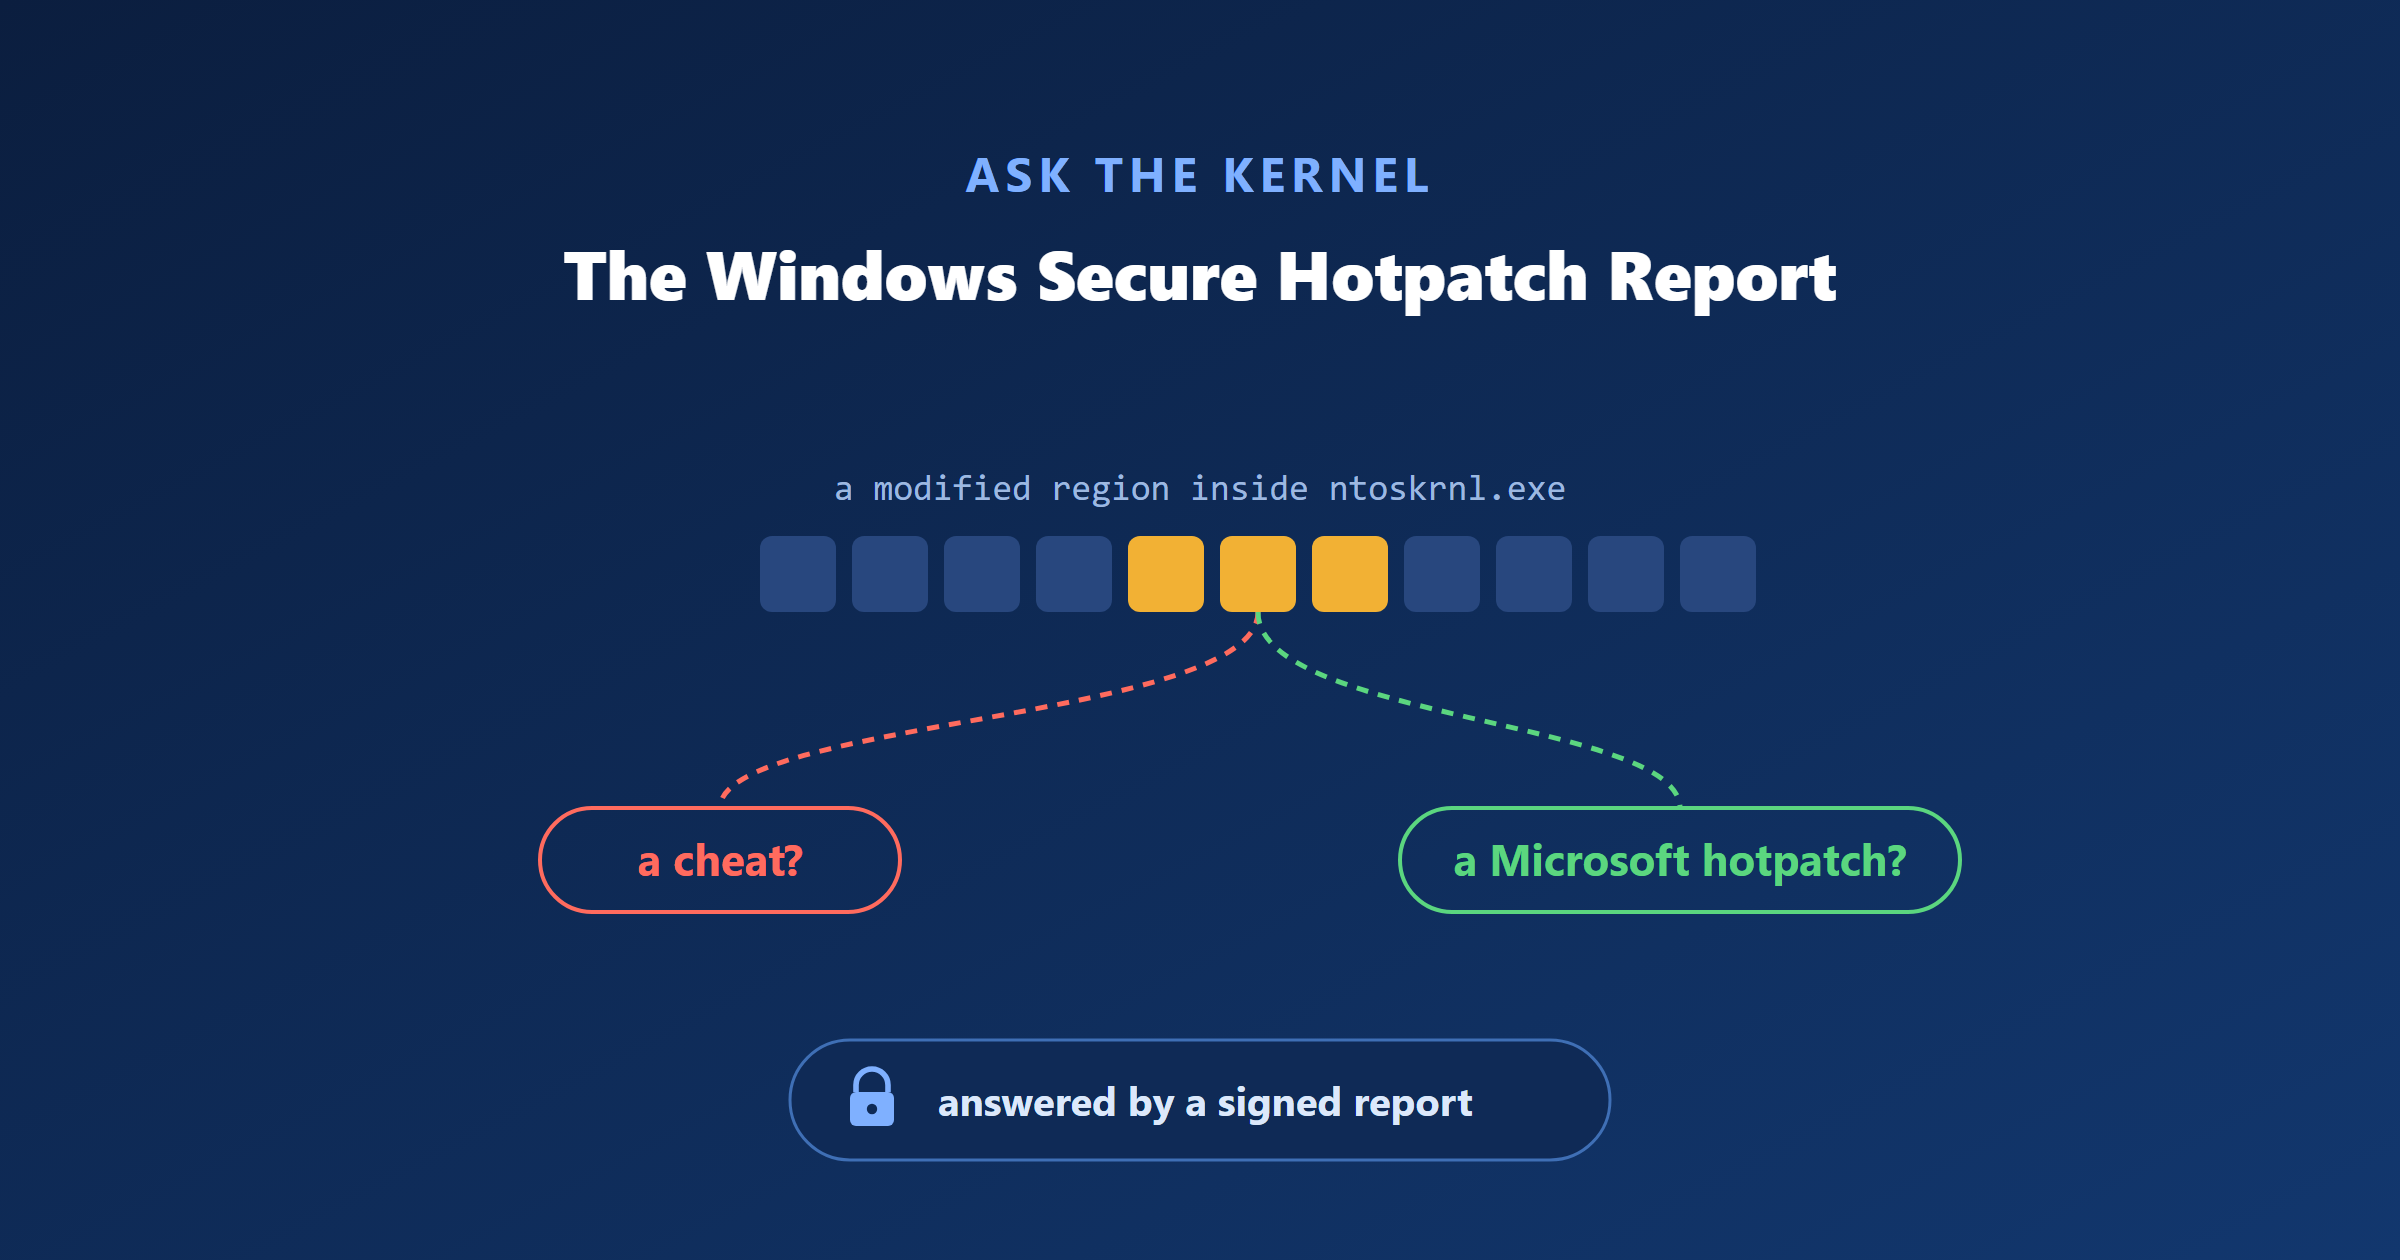
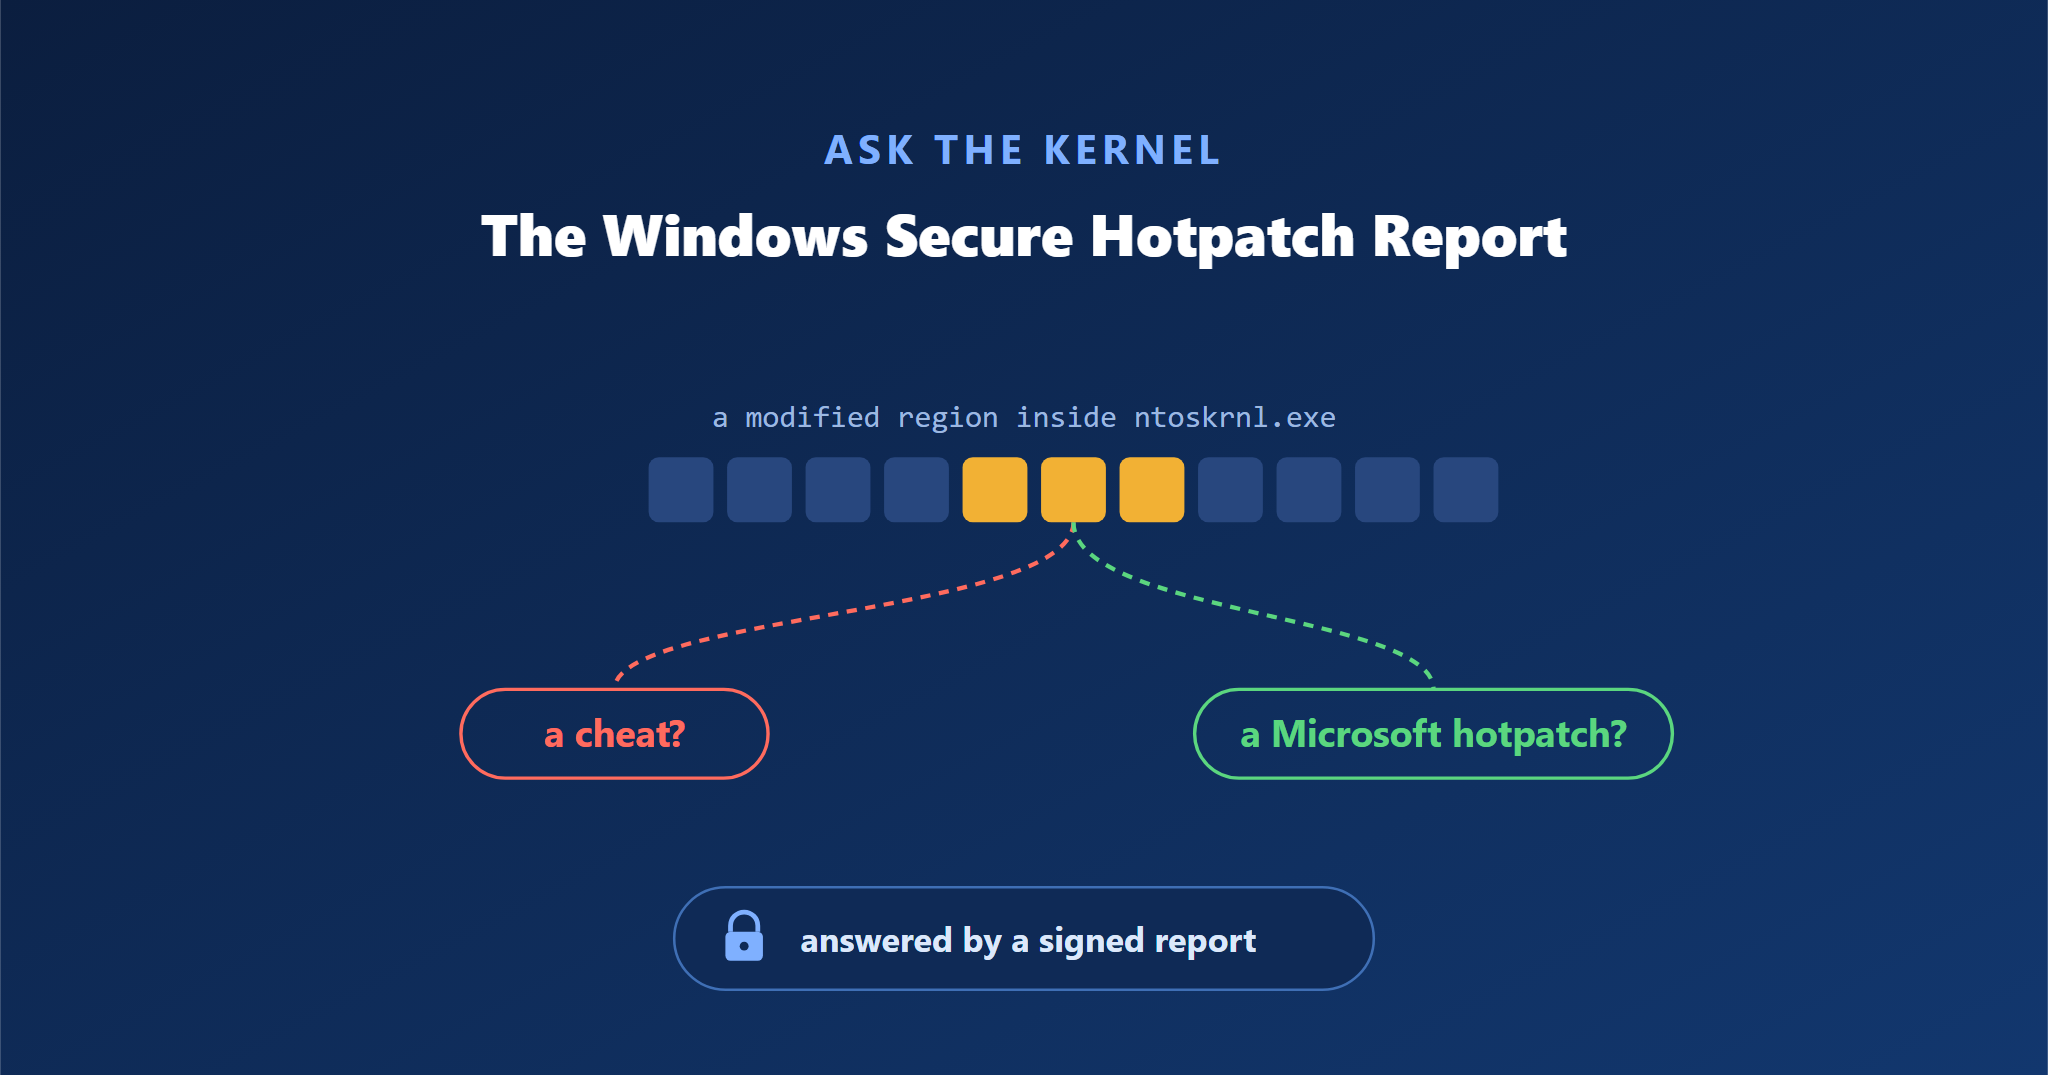
Size the share card for the platforms that consume it
Why is this change being made?
- The share card was rendered at 2400 pixels wide with no colour space
  information at all: no `sRGB` chunk and no embedded profile. Consumers had to
  resample it and guess at its colour space.
- Facebook documents 1200x630 as a floor rather than a target, and asks that
  images stay close to 1.91:1 to avoid cropping. 2048 on the long side sits
  above that floor while staying inside the point where platforms begin
  downscaling, and comfortably inside the 5 MB ceiling X and LinkedIn apply.

What changed?
- Rendered the card at 2048x1075 straight from the vector source, so it is a
  native rasterisation rather than an upscale, at a 1.9051 aspect ratio.
- Embedded an sRGB profile so no consumer has to guess at the colour space.
- Told the optimizer to keep metadata on the lossless path, since sharp drops
  it by default and would otherwise strip the profile the file just gained.
- Kept PNG rather than JPEG. Every platform re-encodes card images anyway, so a
  lossless source means one lossy generation rather than two, and this artwork
  is flat colour, thin strokes and text on a gradient, which is the content
  JPEG handles worst.

How was the change tested?
- Built with `JEKYLL_ENV=production` and ran the optimizer over the built site
  exactly as the deploy workflow does.
- Confirmed the card leaves the pipeline pixel-identical to the source, with a
  maximum per-channel difference of zero, in RGB mode rather than palette, and
[…]

diff --git a/_posts/2026-07-31-secure-hotpatch-report.md b/_posts/2026-07-31-secure-hotpatch-report.md
@@ -7,8 +7,8 @@ image:
   alt: "The Windows Secure Hotpatch Report: a modified region in ntoskrnl.exe branching to 'a cheat?' or 'a Microsoft hotpatch?', answered by a signed report."
 social_image:
   path: /assets/images/hotpatch/hero-hotpatch.png
-  width: 2400
-  height: 1260
+  width: 2048
+  height: 1075
 tags:
 - Security
 - Windows
